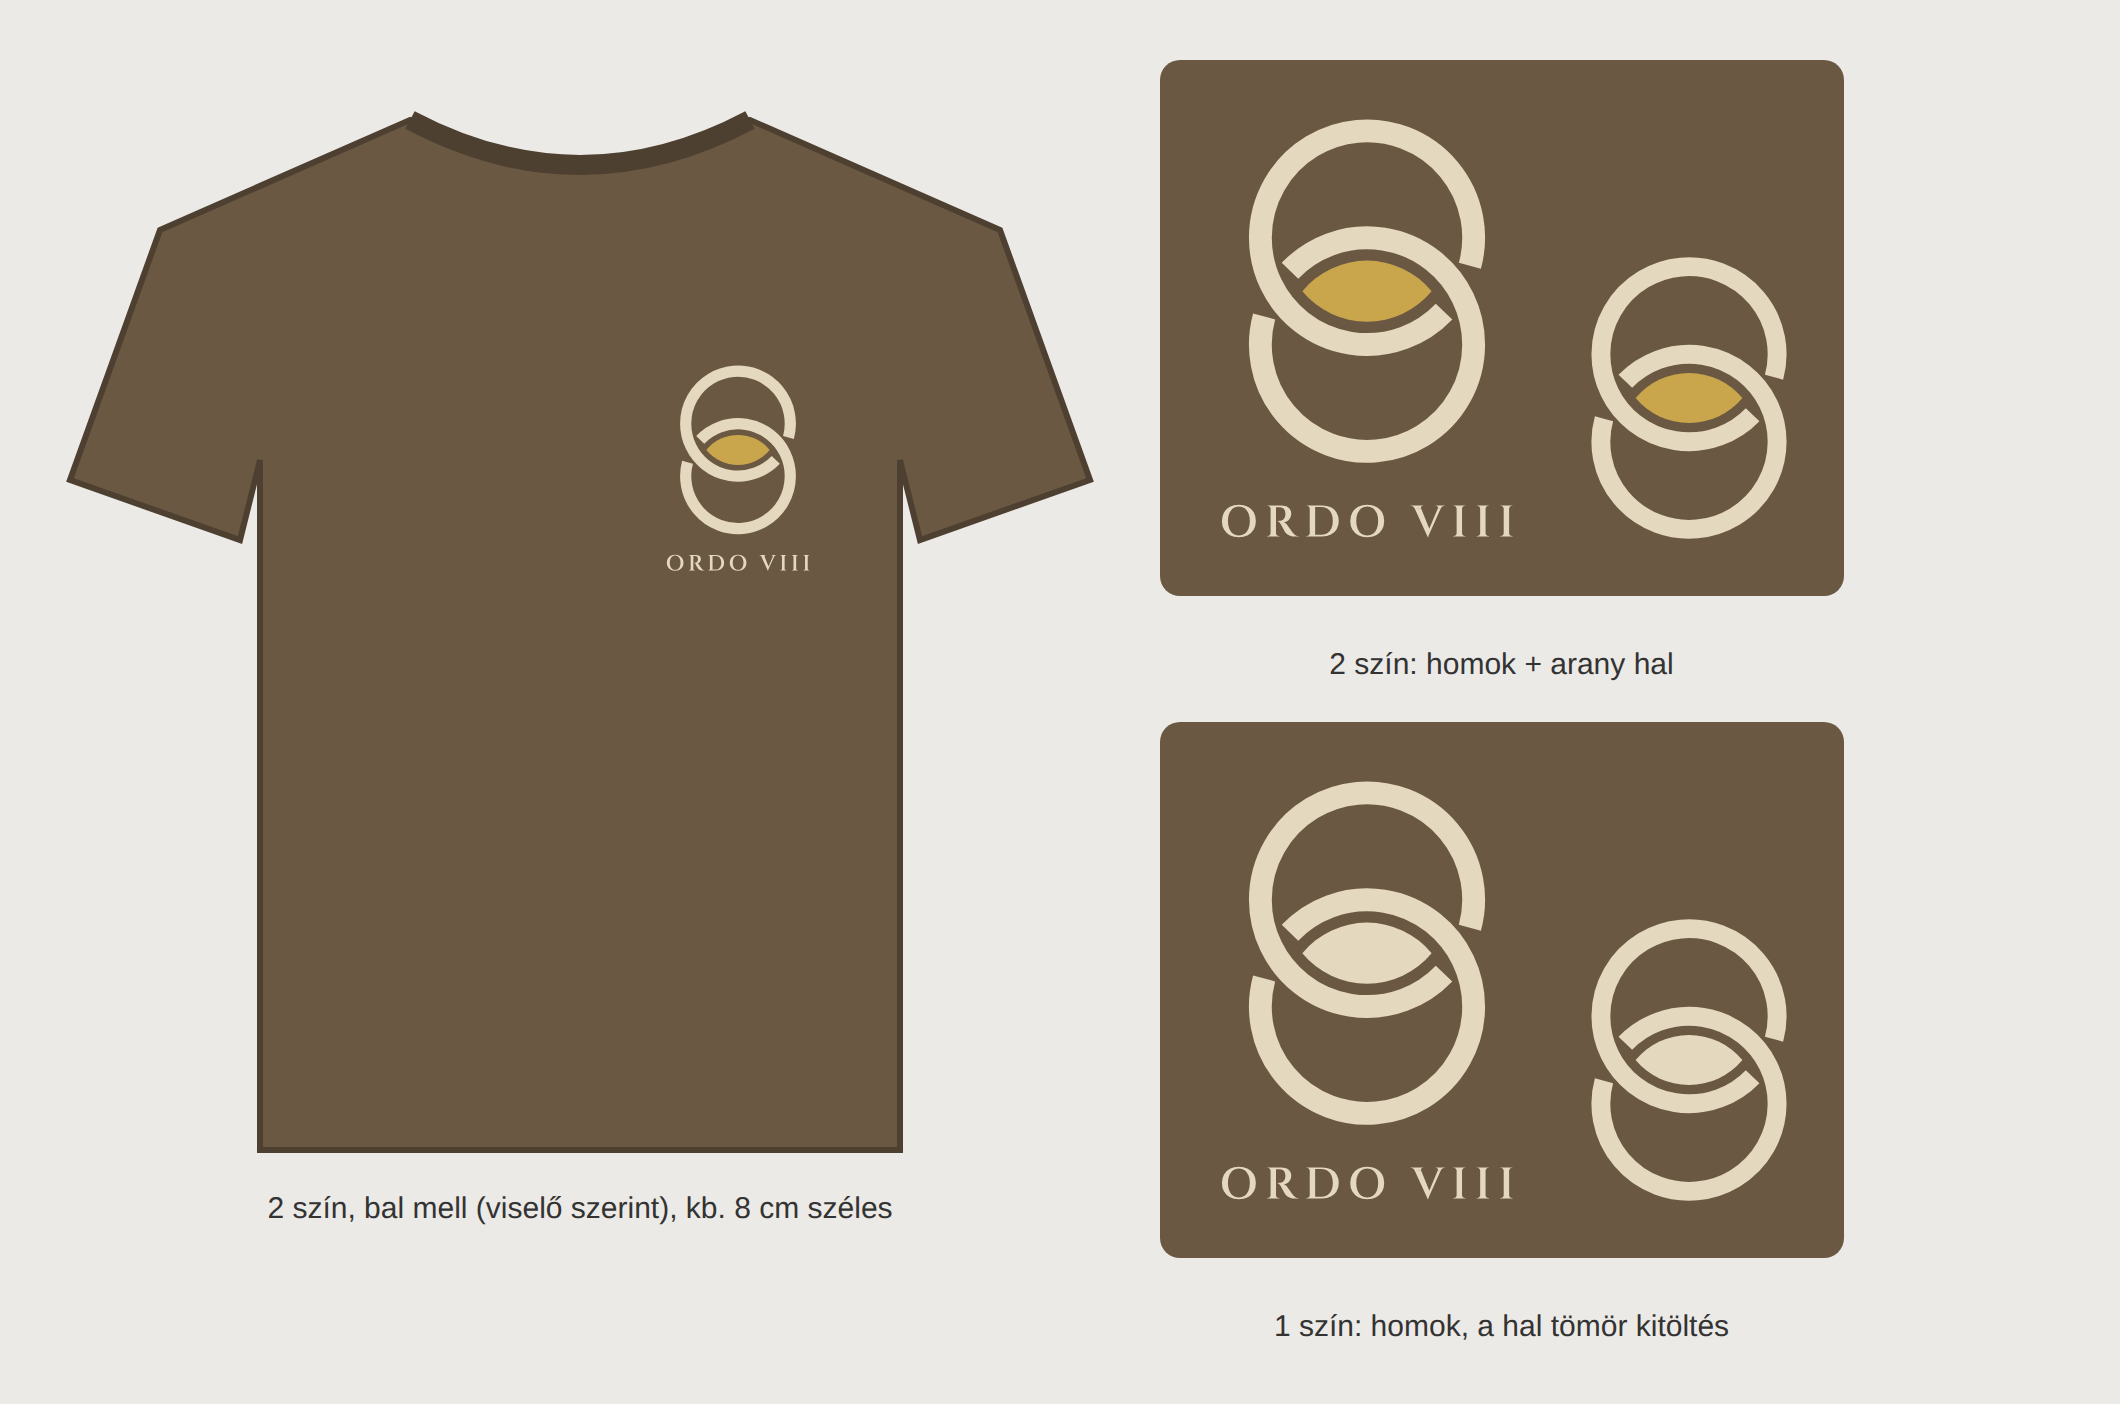
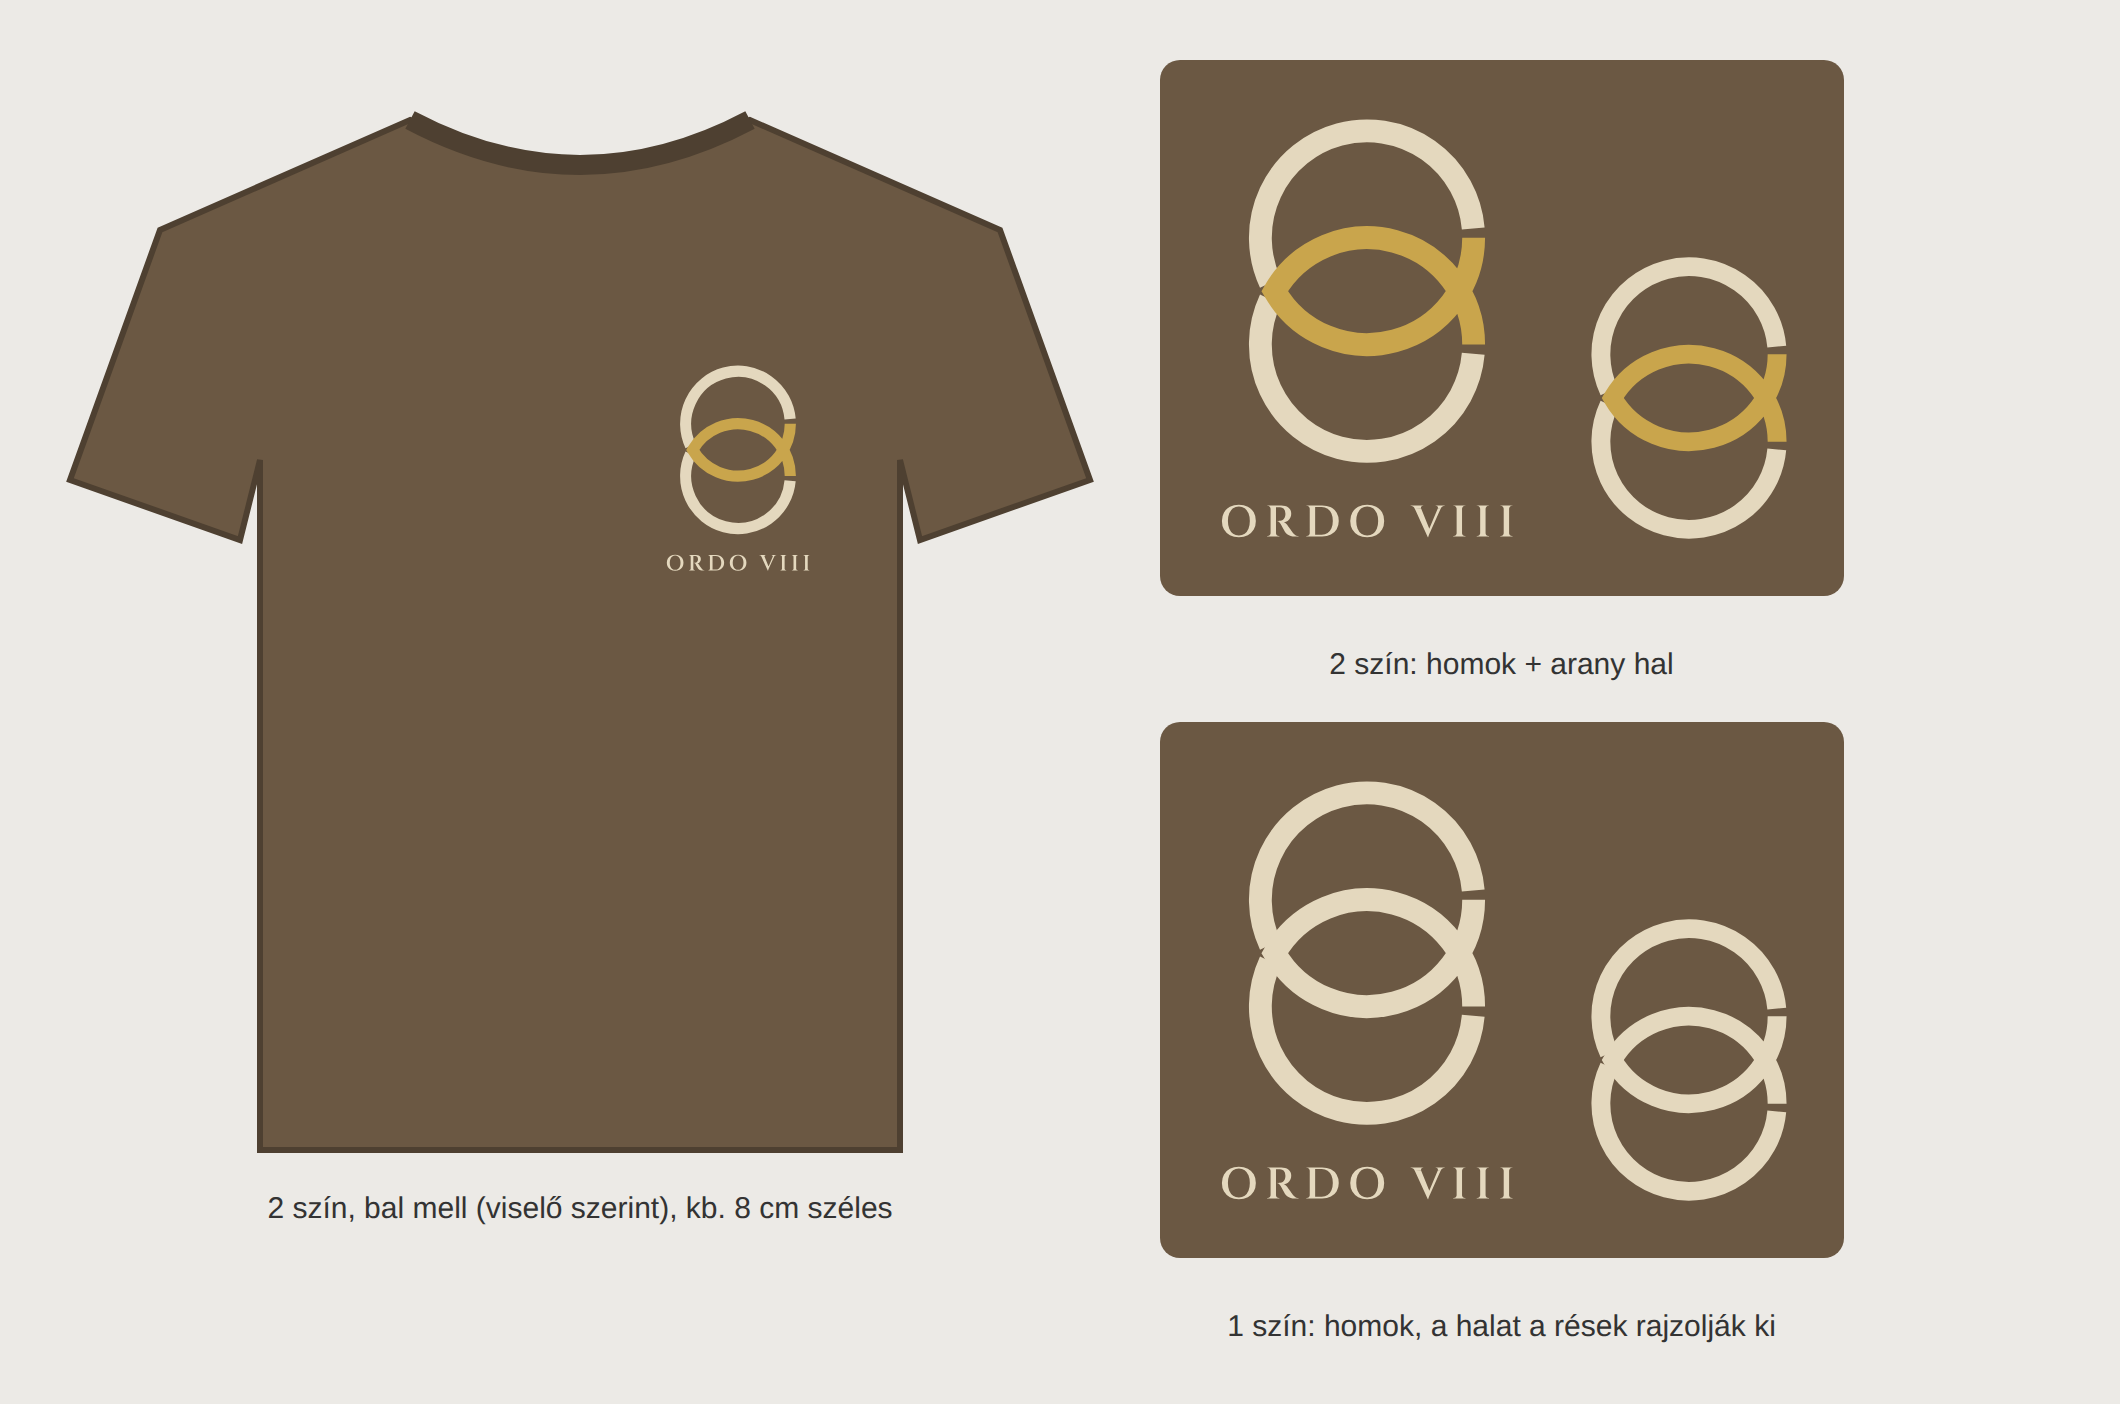
Pólólogó: a hal ichthys-körvonalként (az autós halforma) kap kiemelő színt
Claude-Session: https://claude.ai/code/session_018DCaQ2QiM1BP2YECC3EEuy

diff --git a/docs/arculat/polo/build_polo.py b/docs/arculat/polo/build_polo.py
@@ -34,14 +34,14 @@ def text_path(text, tracking=0.16):
     return "".join(parts), x, bp.bounds[3]
 
 
-def mark(ring, lens):
-    """Két összefonódó gyűrű (a 8-as), a metszetük – a hal (vesica piscis) – kiemelt kitöltéssel.
-    Csak festékfelület van benne: a rések üresen maradnak (a póló színe látszik át), így szitán
-    és hímzésen is tiszta. A gyűrűk között és a hal körül 6 egység (kb. 2,5 mm) rés fut."""
+def mark(ring, fish):
+    """Két összefonódó gyűrű (a 8-as). A belső ívek és a jobb oldali kereszteződésen túli
+    folytatásuk kiadják a halat (ichthys), ahogy az autók hátulján: ez kapja a kiemelő színt.
+    A színváltásoknál 5°-os rés fut, így a két szín nem ér össze (szitán, hímzésen is tiszta)."""
     return f'''
-  <path d="M86.06 120 A44 44 0 0 1 153.94 120 A44 44 0 0 1 86.06 120 Z" fill="{lens}"/>
-  <path d="M79.55 109.29 A56 56 0 1 1 65.97 133.28" fill="none" stroke="{ring}" stroke-width="12"/>
-  <path d="M160.45 130.71 A56 56 0 1 1 174.03 106.72" fill="none" stroke="{ring}" stroke-width="12"/>'''
+  <path d="M175.79 152.88 A56 56 0 1 1 69.25 124.33" fill="none" stroke="{ring}" stroke-width="12"/>
+  <path d="M69.25 115.67 A56 56 0 1 1 175.79 87.12" fill="none" stroke="{ring}" stroke-width="12"/>
+  <path d="M176 92 A56 56 0 0 1 71.5 120 A56 56 0 0 1 176 148" fill="none" stroke="{fish}" stroke-width="12" stroke-linejoin="miter"/>'''
 
 
 def svg(name, ring, lens, with_text, width_mm=80):
@@ -67,10 +67,10 @@ def svg(name, ring, lens, with_text, width_mm=80):
     (OUT / f"ordo-viii-polo-{name}.svg").write_text(out, encoding="utf-8")
 
 
-# 2 szín: homok gyűrűk és felirat, arany hal
+# 2 szín: homok gyűrűk és felirat, arany hal (ichthys)
 svg("2szin-felirattal", HOMOK, ARANY, True)
 svg("2szin-jel", HOMOK, ARANY, False, width_mm=60)
-# 1 szín: minden homok, a hal tömör kitöltéssel emelkedik ki a vonalas gyűrűkből
+# 1 szín: minden homok, a halat a színváltások helyén futó rések rajzolják ki
 svg("1szin-felirattal", HOMOK, HOMOK, True)
 svg("1szin-jel", HOMOK, HOMOK, False, width_mm=60)
 print("kész")

diff --git a/docs/arculat/README.md b/docs/arculat/README.md
@@ -107,4 +107,4 @@ A jelvények: a Cohorsé kör alakú, *FUNICULUS · TRIPLEX · DIFFICILE · RUMP
 
 ## Pólólogó (Ordo VIII, mellre)
 
-A [`polo/`](polo/) könyvtárban nyomdakész SVG-k vannak a 15M barna pólóra, a Láncszem jelből, kiemelt hal-metszettel: 2 színben (homok gyűrűk és felirat, arany hal) és 1 színben (minden homok, a hal tömör kitöltés), felirattal (80 mm széles) és csak jellel (60 mm). A felirat görbésítve van, a rések festék nélküliek, így szitára és hímzésre is mehet. Próbanézet: [`polo-probanezet.png`](polo/polo-probanezet.png). Újragenerálás: `python3 docs/arculat/polo/build_polo.py <Cinzel betűfájl>`.
+A [`polo/`](polo/) könyvtárban nyomdakész SVG-k vannak a 15M barna pólóra, a Láncszem jelből, kiemelt hal-metszettel: 2 színben (homok gyűrűk és felirat, arany hal az autós ichthys formájában: a két belső ív és a farokba futó folytatásuk) és 1 színben (minden homok, a halat a színváltások helyén futó rések rajzolják ki), felirattal (80 mm széles) és csak jellel (60 mm). A felirat görbésítve van, a rések festék nélküliek, így szitára és hímzésre is mehet. Próbanézet: [`polo-probanezet.png`](polo/polo-probanezet.png). Újragenerálás: `python3 docs/arculat/polo/build_polo.py <Cinzel betűfájl>`.
